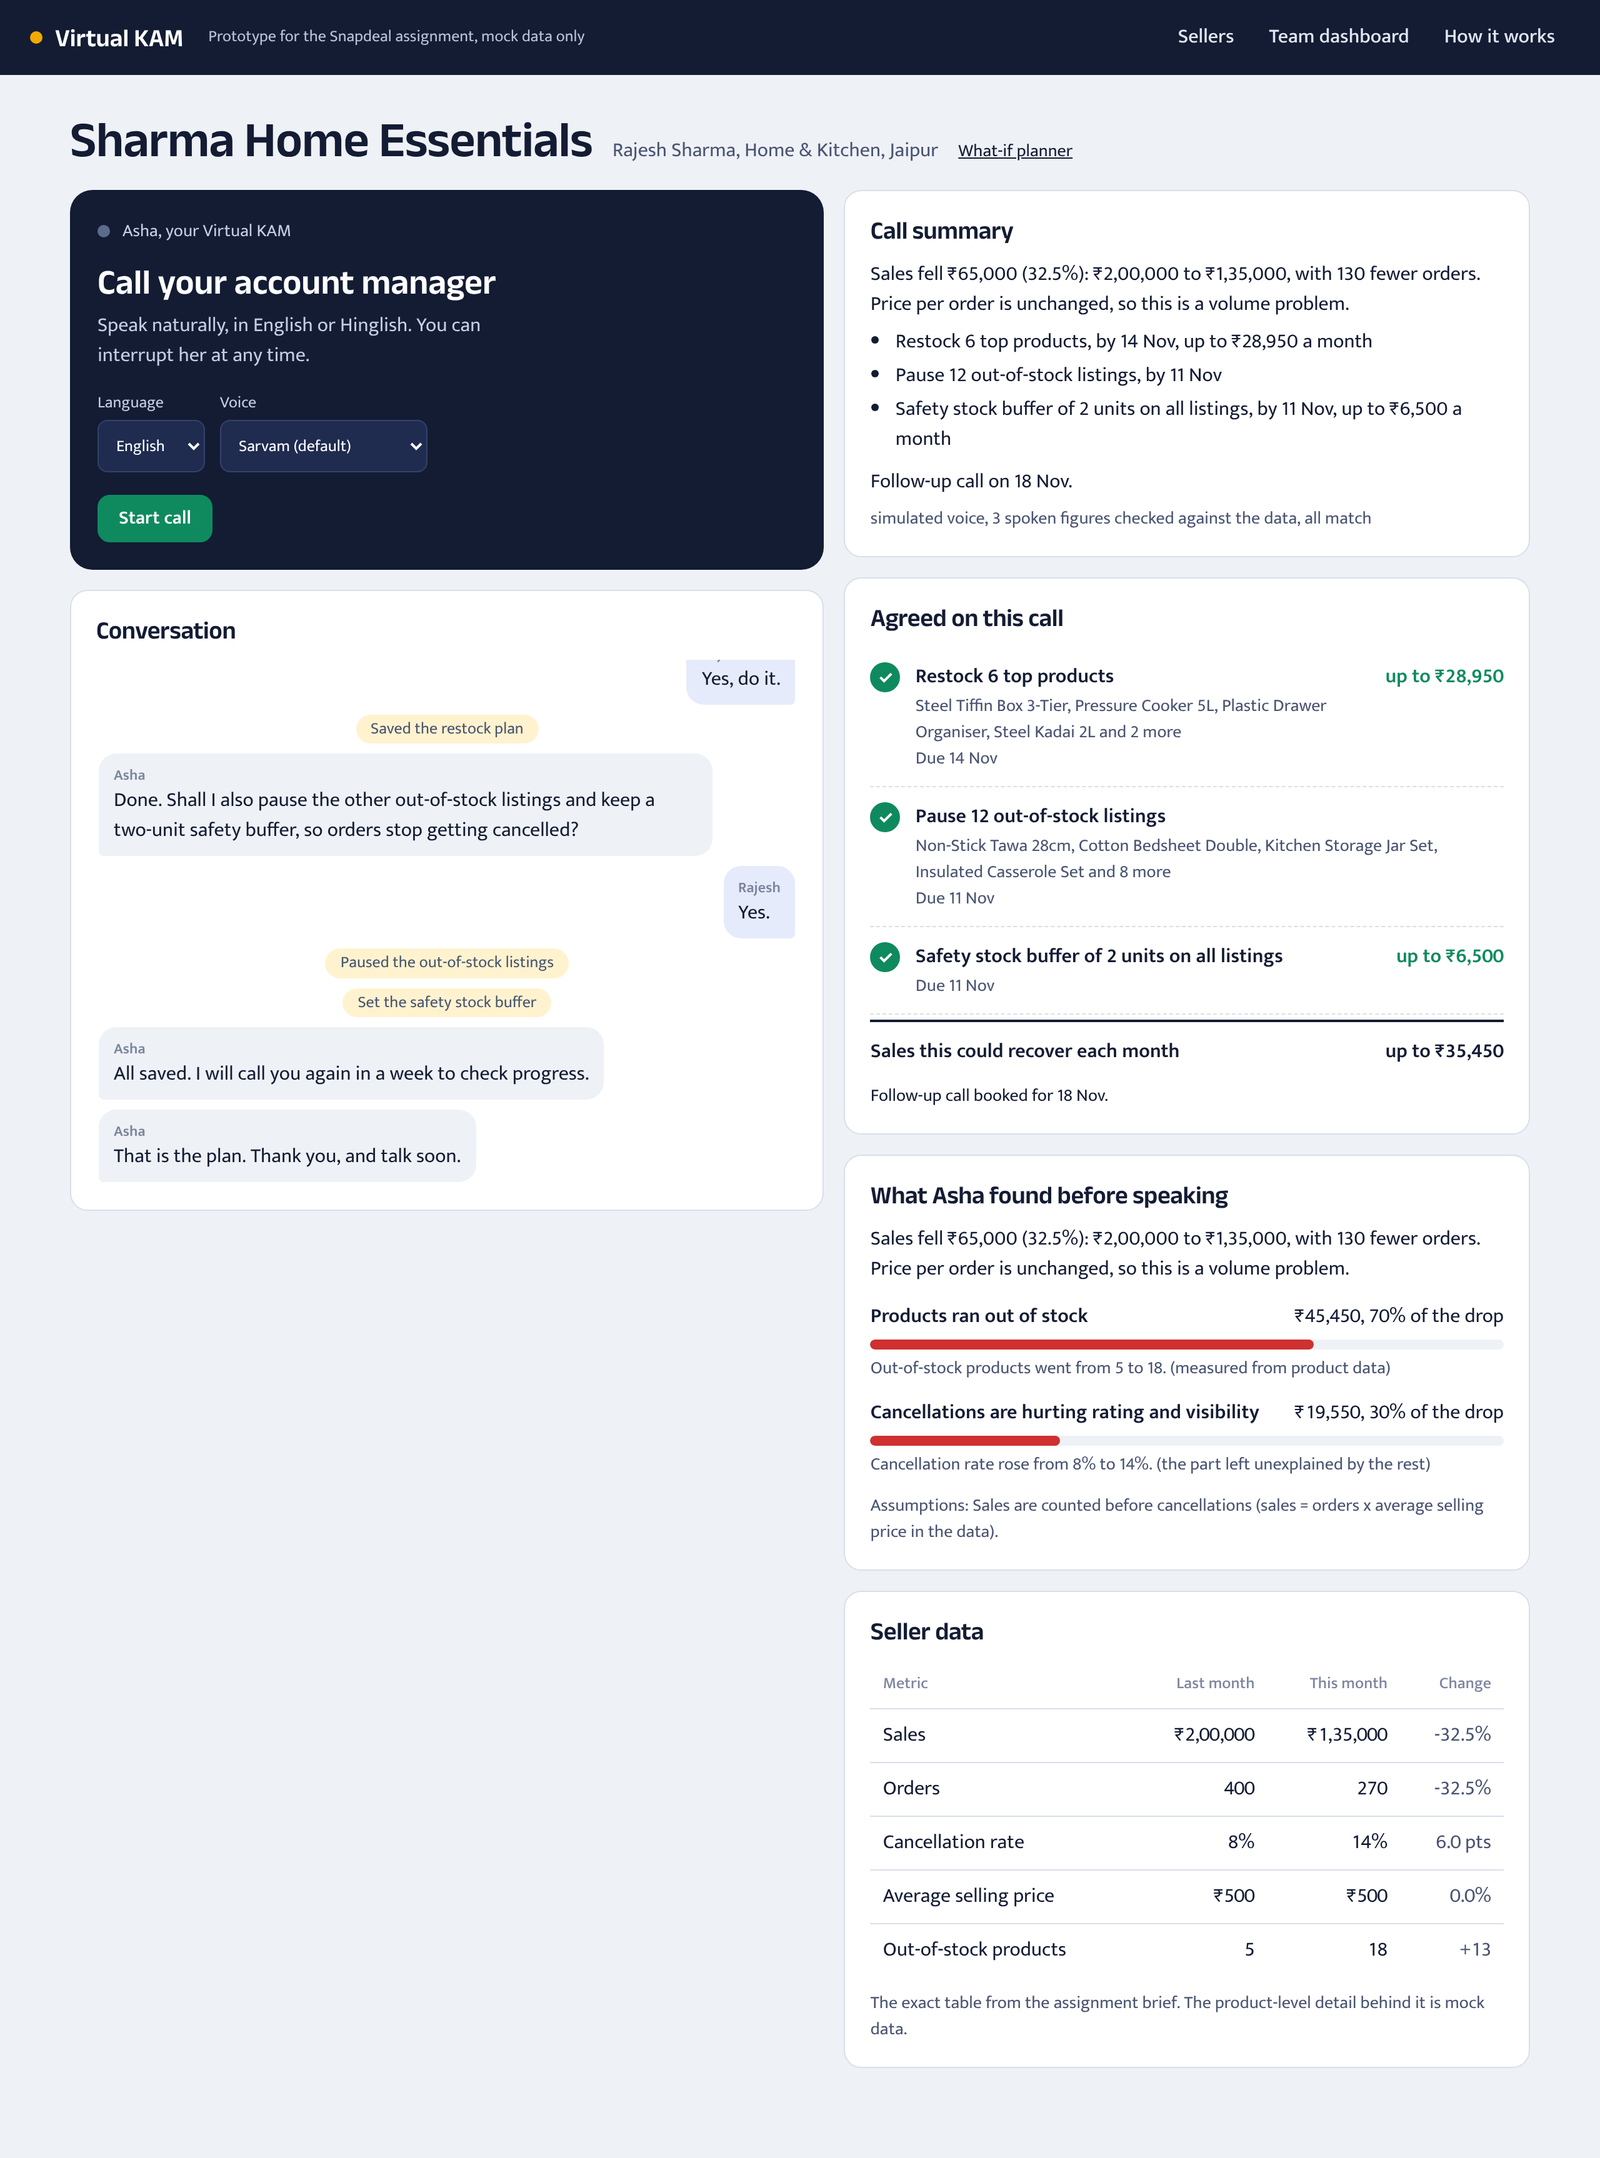
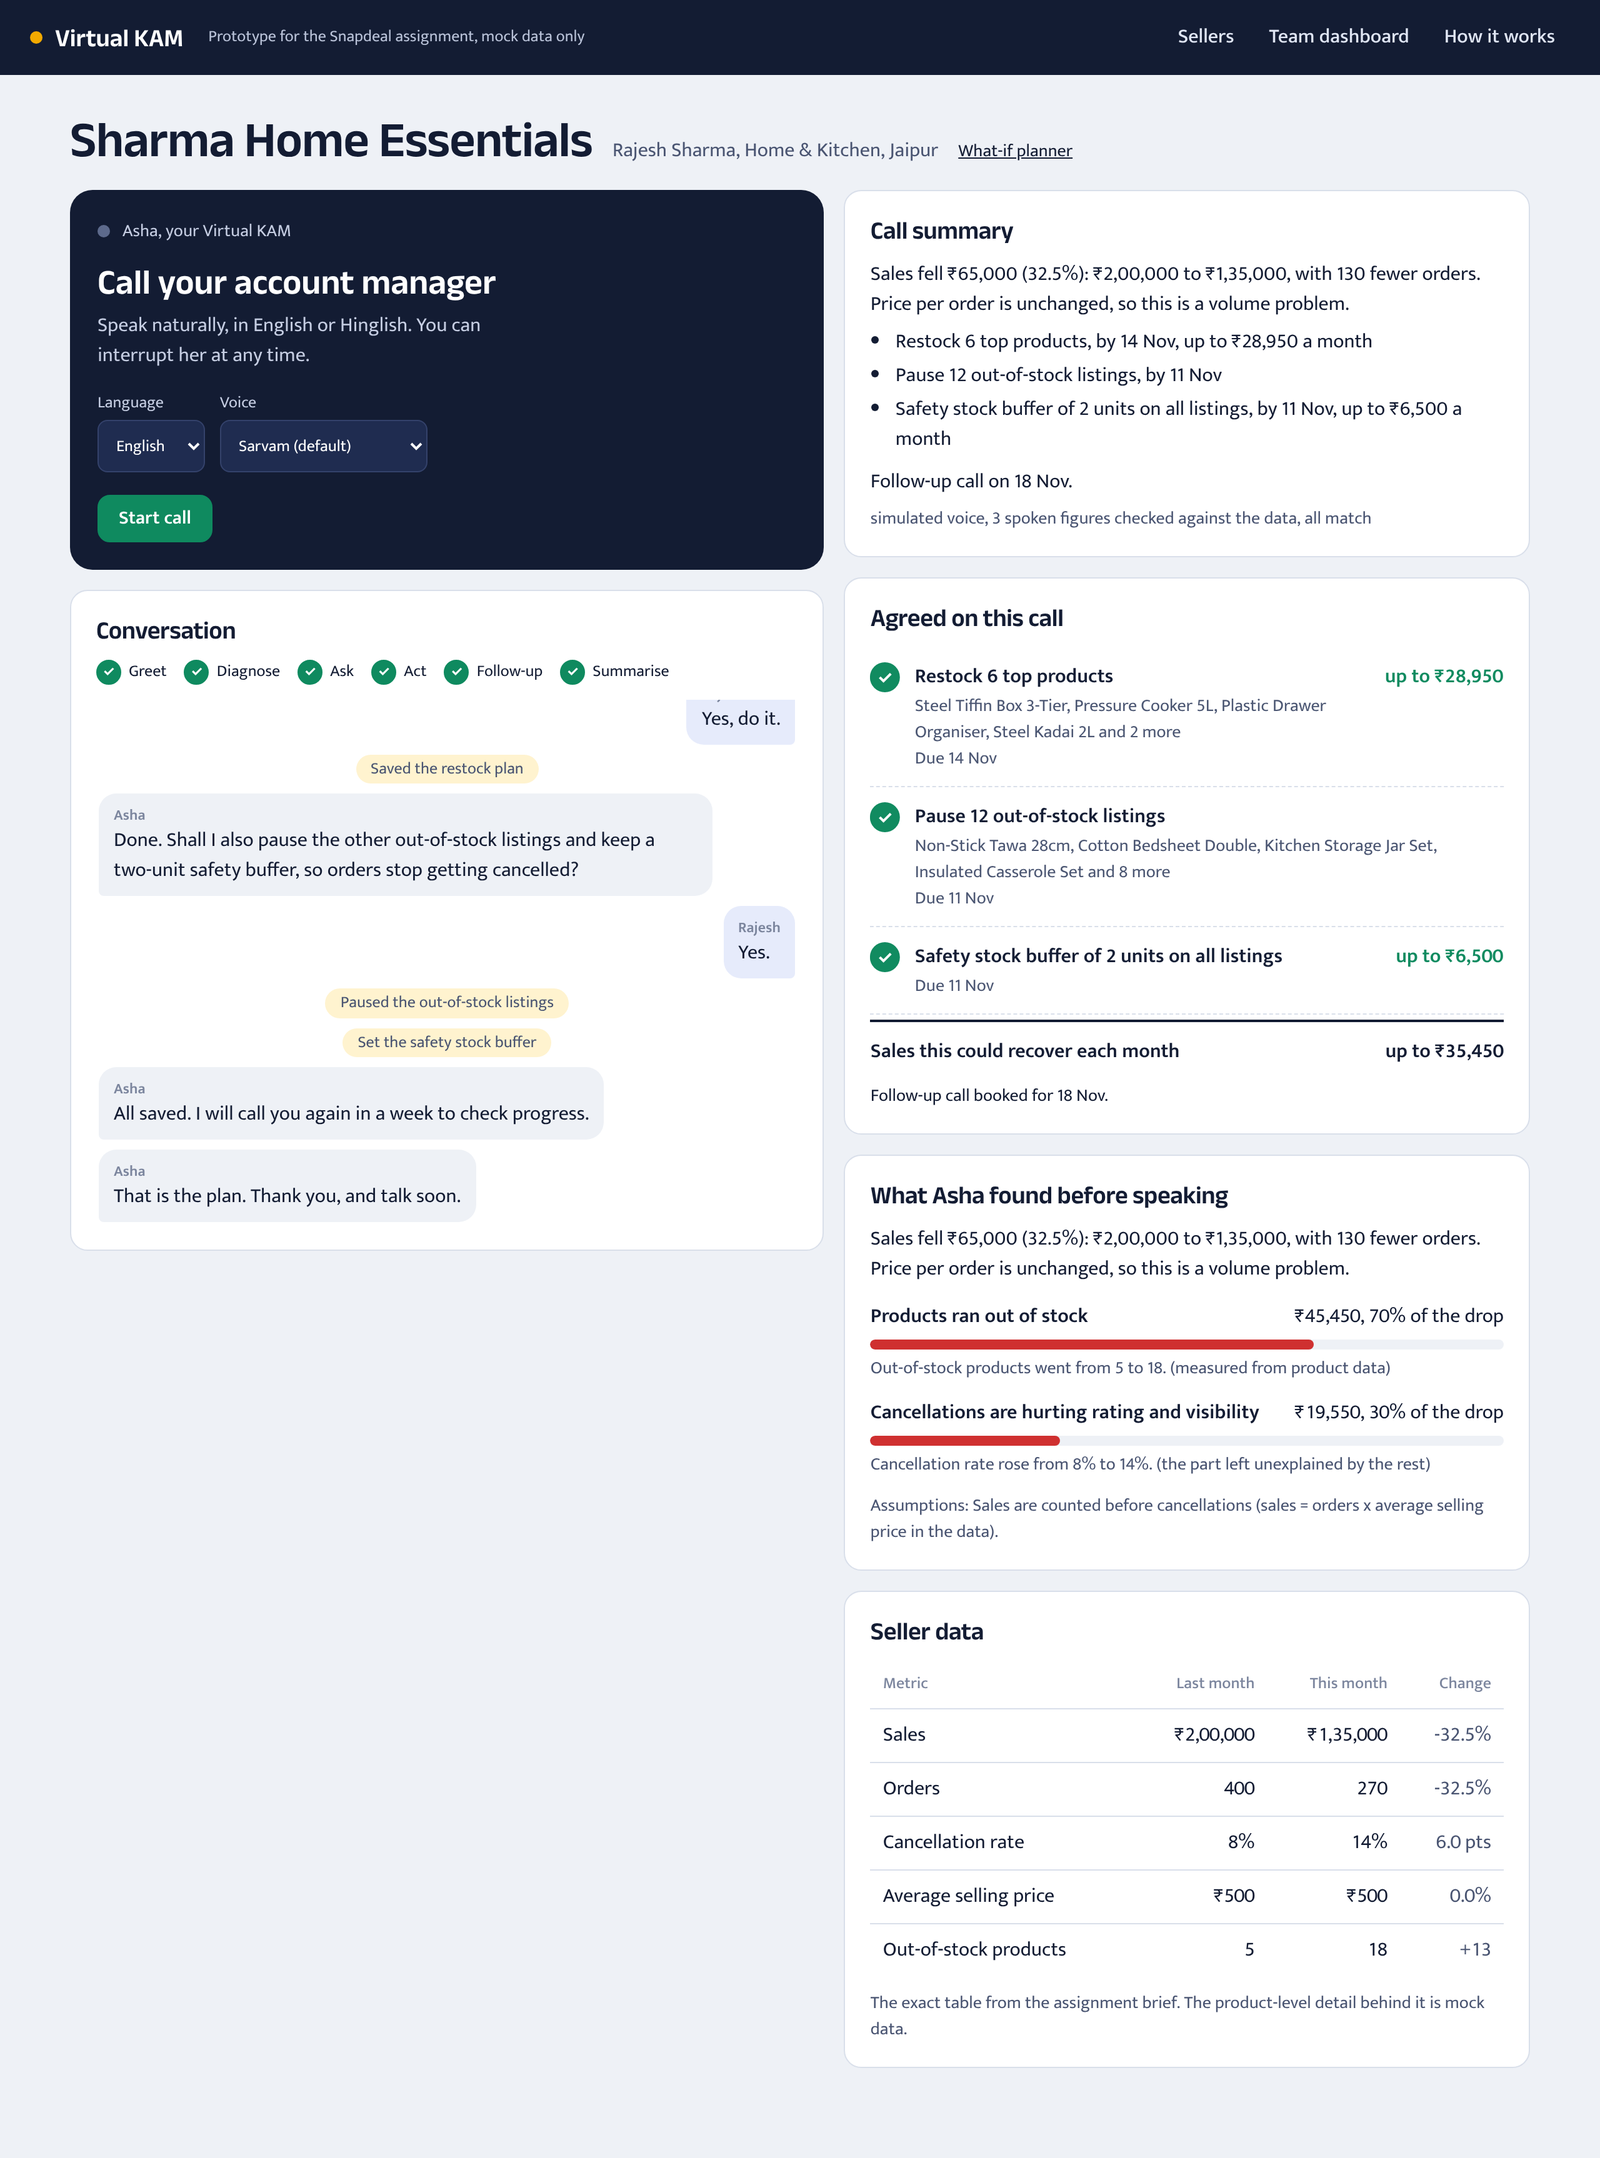
Show call progress on the call screen and show repeated steps once

diff --git a/web/components/CallScreen.tsx b/web/components/CallScreen.tsx
@@ -19,7 +19,7 @@
 import { useCallback, useEffect, useRef, useState, type ReactNode } from "react";
 import { useRouter } from "next/navigation";
 import { Room, RoomEvent, Track } from "livekit-client";
-import { day, inr } from "@/lib/format";
+import { day, inr, withoutRepeats } from "@/lib/format";
 
 type Phase = "idle" | "ringing" | "connecting" | "live" | "ended";
 type Turn = { id: number; role: "agent" | "seller" | "tool"; text: string };
@@ -202,12 +202,25 @@ export default function CallScreen({ sellerId, ownerName, initialDirection, hasH
   }
 
   // ---- Everything below turns the latest state into what is shown on screen ----
-  const turns = state?.turns ?? [];
+  const turns = withoutRepeats(state?.turns ?? []);
   const kept = (state?.actions ?? []).filter((a) => a.status !== "cancelled");
   const removed = (state?.actions ?? []).filter((a) => a.status === "cancelled");
   const actions = kept.filter((a) => a.type !== "followup");
   const followup = kept.find((a) => a.type === "followup");
   const diagnosis = state?.diagnosis;
+
+  // Where the call has got to, worked out from what has been said and saved so far.
+  const agentTurns = turns.filter((t) => t.role === "agent").length;
+  const sellerTurns = turns.filter((t) => t.role === "seller").length;
+  const journey: [string, boolean][] = [
+    ["Greet", agentTurns >= 1],
+    ["Diagnose", agentTurns >= 2],
+    ["Ask", sellerTurns >= 2],
+    ["Act", actions.length >= 1],
+    ["Follow-up", kept.some((a) => a.type === "followup")],
+    ["Summarise", Boolean(state?.call?.summary?.issue)],
+  ];
+  const nextStep = journey.findIndex(([, done]) => !done);
   const summary = state?.call?.status === "ended" ? state.call.summary : null;
   const live = phase === "live";
   const dropped = summary?.ended_reason === "connection_problem";
@@ -276,7 +289,7 @@ export default function CallScreen({ sellerId, ownerName, initialDirection, hasH
             {phase === "ended" && <button className="btn onDark" onClick={simulateWeek}>Simulate a week passing</button>}
           </div>
           {phase === "idle" && hasHistory && <p className="hint small" style={{ marginTop: 12 }}>This seller has an earlier call, so Asha will open by following up on it.</p>}
-          {live && micBlocked && <p className="hint small" style={{ marginTop: 12 }}>No microphone was available, so this call is in typing mode. Asha still speaks; type your side under the conversation.</p>}
+          {live && micBlocked && <p className="hint small" style={{ marginTop: 12 }}>No microphone was available, so this call is in typing mode. Asha still speaks; type your side under the conversation. To speak instead, allow the microphone for this site in your browser, then start a new call.</p>}
           {live && !showTyping && <p className="hint small" style={{ marginTop: 12 }}><button type="button" className="linkish" onClick={() => setShowTyping(true)}>Cannot speak right now? Type instead</button></p>}
           {simNote && <p className="hint small" style={{ marginTop: 12 }}>{simNote}</p>}
           {error && <div className="error" role="alert">{error}</div>}
@@ -285,6 +298,15 @@ export default function CallScreen({ sellerId, ownerName, initialDirection, hasH
 
         <div className="card">
           <h2>Conversation</h2>
+          {callId && (
+            <ol className="journey" aria-label="Progress of the call">
+              {journey.map(([label, done], i) => (
+                <li key={label} className={done ? "done" : i === nextStep && live ? "now" : ""}>
+                  <i>{done ? "✓" : i + 1}</i>{label}
+                </li>
+              ))}
+            </ol>
+          )}
           <div className="talk" ref={talkRef}>
             {turns.length === 0 && <p className="muted">{callId ? "Waiting for the first words." : "The transcript appears here once the call starts."}</p>}
             {turns.map((t) => t.role === "tool"

diff --git a/web/app/dashboard/calls/[id]/page.tsx b/web/app/dashboard/calls/[id]/page.tsx
@@ -3,7 +3,7 @@
 import Link from "next/link";
 import { notFound } from "next/navigation";
 import { ensureReviews, q } from "@/lib/db";
-import { causeLabel, day, inr, shortDate } from "@/lib/format";
+import { causeLabel, day, inr, shortDate, withoutRepeats } from "@/lib/format";
 import ReviewForm from "@/components/ReviewForm";
 
 export const dynamic = "force-dynamic";
@@ -16,11 +16,12 @@ export default async function CallDetail({ params }: { params: Promise<{ id: str
     `select c.*, s.name as seller_name, s.owner_name, s.city from calls c join sellers s on s.id = c.seller_id where c.id = $1`, [id]);
   if (!calls.length) notFound();
   const call = calls[0];
-  const [turns, actions, reviews] = await Promise.all([
+  const [allTurns, actions, reviews] = await Promise.all([
     q("select id, role, text, at from call_turns where call_id = $1 order by id", [id]),
     q("select * from actions where call_id = $1 order by created_at", [id]),
     q("select * from call_reviews where call_id = $1", [id]),
   ]);
+  const turns = withoutRepeats(allTurns);
   const review = reviews[0] ?? null;
   const summary = call.summary ?? {};
   const notes: Record<string, string> = call.notes ?? {};

diff --git a/web/app/globals.css b/web/app/globals.css
@@ -125,6 +125,12 @@ form.own .h { font-size: 13px; color: var(--ink-3); }
 .flow b { display: block; }
 
 td .btn { white-space: nowrap; }
+/* Progress of the call: Greet, Diagnose, Ask, Act, Follow-up, Summarise */
+.journey { list-style: none; display: flex; flex-wrap: wrap; gap: 6px 14px; padding: 0; margin: 10px 0 12px; font-size: 13px; color: var(--ink-3); }
+.journey li { display: inline-flex; align-items: center; gap: 6px; }
+.journey i { width: 20px; height: 20px; border-radius: 50%; border: 1.5px solid var(--line); display: grid; place-items: center; font-style: normal; font-size: 11px; font-weight: 700; }
+.journey .done { color: var(--ink); } .journey .done i { background: var(--green); border-color: var(--green); color: #fff; }
+.journey .now { color: var(--ink); font-weight: 600; } .journey .now i { border-color: var(--marigold); background: var(--marigold-soft); }
 /* Typed fallback on the call screen */
 .typed { display: flex; gap: 8px; margin-top: 12px; }
 .typed input { flex: 1; min-width: 0; border: 1px solid var(--line); border-radius: 10px; padding: 9px 12px; font: inherit; color: inherit; background: var(--card); }

diff --git a/web/lib/format.ts b/web/lib/format.ts
@@ -39,3 +39,9 @@ export function day(d: string | null | undefined): string {
   const months = ["Jan", "Feb", "Mar", "Apr", "May", "Jun", "Jul", "Aug", "Sep", "Oct", "Nov", "Dec"];
   return `${Number(m[3])} ${months[Number(m[2]) - 1]}`;
 }
+
+// The agent sometimes reports the same step twice in a row (for example "Ended the call").
+// Show it once.
+export function withoutRepeats<T extends Record<string, any>>(turns: T[]): T[] {
+  return turns.filter((turn, i) => !(i > 0 && turn.role === "tool" && turns[i - 1].role === "tool" && turns[i - 1].text === turn.text));
+}

diff --git a/README.md b/README.md
@@ -71,6 +71,9 @@ flowchart LR
 The agent and the web app never call each other: both read and write the database, so calls
 are independent and more agent workers can be added without changing anything else.
 
+**`docs/LIVE_CALL_TEST.md`** is the record of a full call against the real services, with what
+was checked, what it found and the whole conversation.
+
 **`docs/ARCHITECTURE.md`** has the full design: a step-by-step call diagram, why each part was
 chosen and what it costs, the data model, how it grows to one lakh sellers, and what happens
 when each part fails.
